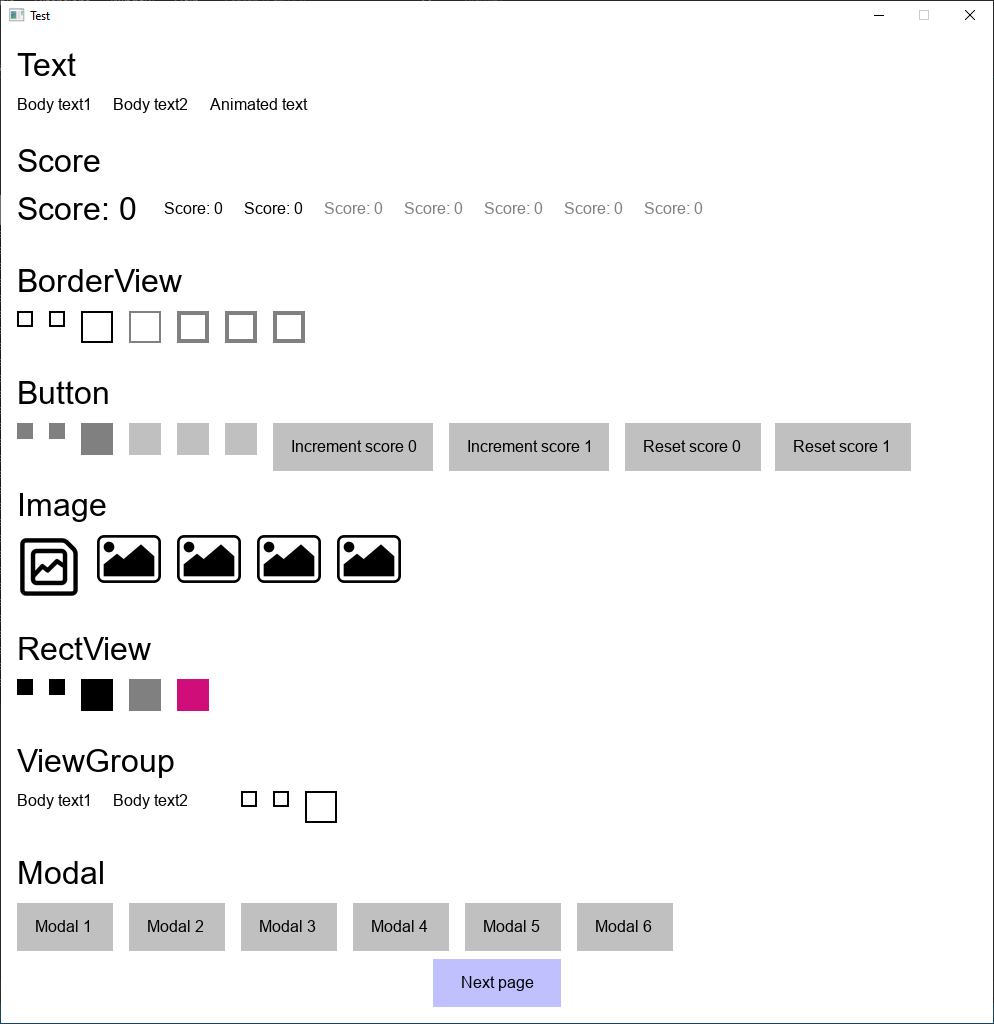
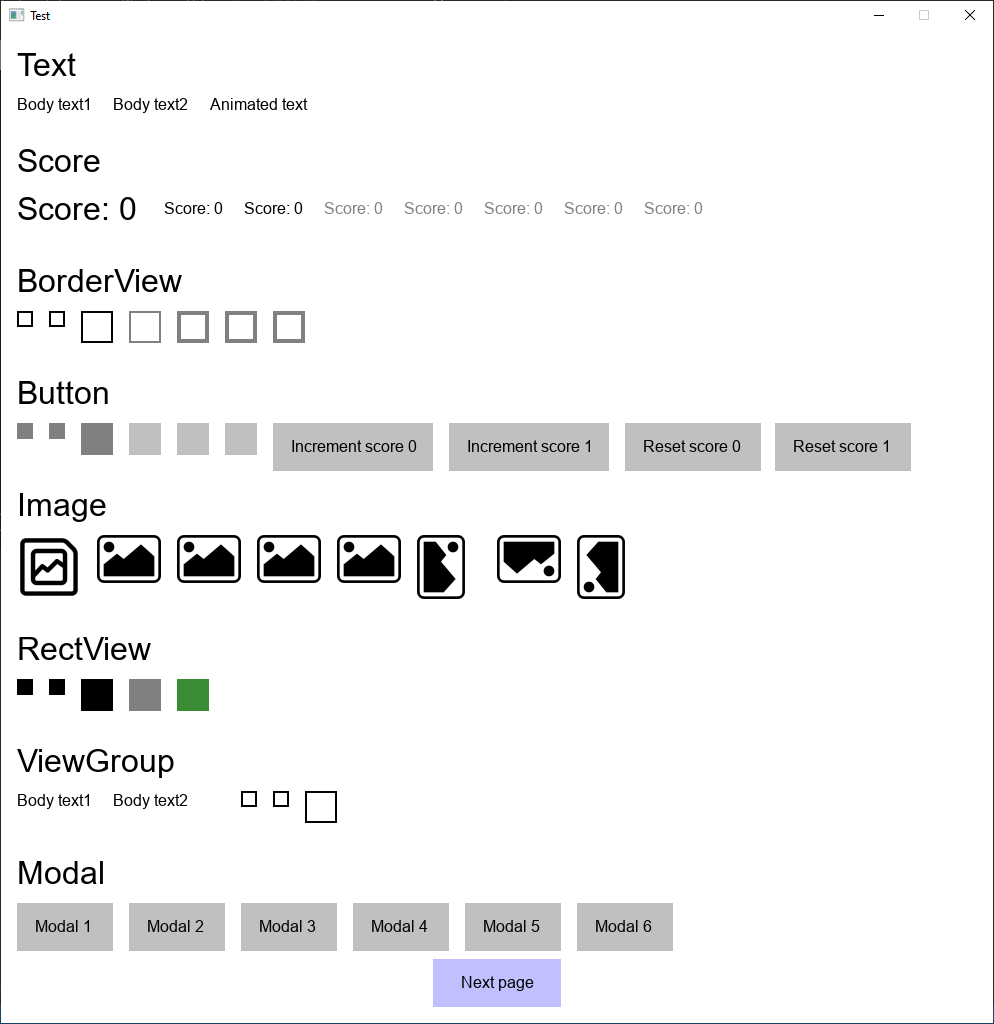
Support image rotation

Changed region(s): [[0.499, 0.5, 0.6237, 0.5938], [0.4054, 0.5, 0.4678, 0.5938], [0.1559, 0.6562, 0.2183, 0.7188]]

diff --git a/viewify/src/test/ViewGroupFactory/ViewifyViewGroupFactory.cpp b/viewify/src/test/ViewGroupFactory/ViewifyViewGroupFactory.cpp
@@ -16,6 +16,7 @@
 #include "../../main/Image/Text.h"
 #include "../../main/Text/Score.h"
 #include "../../main/View/BorderView.h"
+#include "../../main/Any/Enums.h"
 #include "../Any/Enums.h"
 #include "../../main/View/Button.h"
 #include "../../main/View/Image.h"
@@ -187,6 +188,9 @@ ViewGroup ViewifyViewGroupFactory::make(SDL_Renderer*const renderer, const Size<
       Image::Builder{ renderer, IMG_Load("res/test/placeholder2.png"), Point{ 176, 504 } }.setDuration(1u).build(),
       Image::Builder{ renderer, IMG_Load("res/test/placeholder2.png"), Point{ 256, 504 } }.setA(128u).setDuration(1u).build(),
       Image::Builder{ renderer, IMG_Load("res/test/placeholder2.png"), Point{ 336, 504 } }.setA(128u).setDuration(256u).build(),
+      Image::Builder{ renderer, IMG_Load("res/test/placeholder2.png"), Point{ 416, 504 }, Align::LEFT, Rotation::QUARTER_CLOCKWISE }.setA(128u).setDuration(256u).build(),
+      Image::Builder{ renderer, IMG_Load("res/test/placeholder2.png"), Point{ 496, 504 }, Align::LEFT, Rotation::HALF }.setA(128u).setDuration(256u).build(),
+      Image::Builder{ renderer, IMG_Load("res/test/placeholder2.png"), Point{ 576, 504 }, Align::LEFT, Rotation::QUARTER_COUNTERCLOCKWISE }.setA(128u).setDuration(256u).build(),
       Text::Builder{ renderer, headFont, Point{ 16, 600 }, "RectView" }.setDuration(1u).build(),
       new RectView{ renderer, Point{ 16, 648 }, Paint{ Size{ 16, 16 }, Color{ 0u, 0u, 0u } } },
       new RectView{ renderer, Point{ 48, 648 }, Paint{ Size{ 16, 16 }, Color{ 0u, 0u, 0u } } },

diff --git a/viewify/src/main/View/Image.cpp b/viewify/src/main/View/Image.cpp
@@ -21,7 +21,7 @@ Image* Image::Builder::build() {
 Image::Image(const Builder& builder) :
   View{ builder.renderer, builder.position - (builder.align == Align::LEFT ? Size{ 0, 0 } : Size{ builder.surface->w >> 1u, 0 }) },
   model{ ImageModel::Builder{ builder.a }.setDuration(builder.duration).build() }, surface{ builder.surface },
-  texture{ SDL_CreateTextureFromSurface(builder.renderer, surface) }, align{ builder.align } { }
+  texture{ SDL_CreateTextureFromSurface(builder.renderer, surface) }, align{ builder.align }, rotation{ builder.rotation } { }
 
 void Image::free() {
   SDL_DestroyTexture(texture);
@@ -50,8 +50,19 @@ void Image::step(const unsigned int dt) {
 
 void Image::render() {
   SDL_SetTextureAlphaMod(texture, static_cast<Uint8>(model.getA()));
-  const SDL_Rect rect{ getPosition().get().x, getPosition().get().y, surface->w, surface->h };
-  SDL_RenderCopy(getRenderer(), texture, nullptr, &rect);
+  SDL_Rect rect;
+  rect.w = surface->w;
+  rect.h = surface->h;
+  switch (rotation) {
+  case Rotation::NONE: case Rotation::HALF:
+    rect.x = getPosition().get().x;
+    rect.y = getPosition().get().y;
+    break;
+  case Rotation::QUARTER_CLOCKWISE: case Rotation::QUARTER_COUNTERCLOCKWISE:
+    rect.x = getPosition().get().x - ((rect.w - rect.h) >> 1u);
+    rect.y = getPosition().get().y + ((rect.w - rect.h) >> 1u);
+  }
+  SDL_RenderCopyEx(getRenderer(), texture, nullptr, &rect, static_cast<double>(static_cast<float>(rotation) * 90.f), nullptr, SDL_FLIP_NONE);
 }
 
 Image::~Image() {

diff --git a/viewify/src/main/View/Image.h b/viewify/src/main/View/Image.h
@@ -40,13 +40,14 @@ class Image : public View {
     unsigned int duration;  // animation duration
     bool hasSetDuration;  // has set animation duration
     const Align align;
+    const Rotation rotation;
 
    public:
     // Param renderer: it must not be assigned to nullptr or integer
     // Param surface: it must not be assigned to nullptr or integer
     explicit constexpr Builder(SDL_Renderer*const renderer, SDL_Surface*const surface, const Point<int>& position,
-      const Align align = Align::LEFT) : renderer{ renderer }, surface{ surface }, position{ position }, a{ 255u }, duration{ 0u },
-      hasSetDuration{ false }, align{ align } { }
+      const Align align = Align::LEFT, const Rotation rotation = Rotation::NONE) : renderer{ renderer }, surface{ surface }, position{ position }, a{ 255u }, duration{ 0u },
+      hasSetDuration{ false }, align{ align }, rotation{ rotation } { }
 
     constexpr Builder& setA(const unsigned int value) {
       a = value;
@@ -72,6 +73,7 @@ class Image : public View {
   SDL_Surface* surface;
   SDL_Texture* texture;
   const Align align;
+  const Rotation rotation;
 
   void free();
 

diff --git a/viewify/src/main/Any/Enums.h b/viewify/src/main/Any/Enums.h
@@ -13,6 +13,10 @@ enum class Align : unsigned int {
   LEFT, CENTER
 };
 
+enum class Rotation : unsigned int {
+  NONE, QUARTER_CLOCKWISE, HALF, QUARTER_COUNTERCLOCKWISE
+};
+
 }  // namespace ii887522::viewify
 
 #endif  // VIEWIFY_SRC_MAIN_ANY_ENUMS_H_
